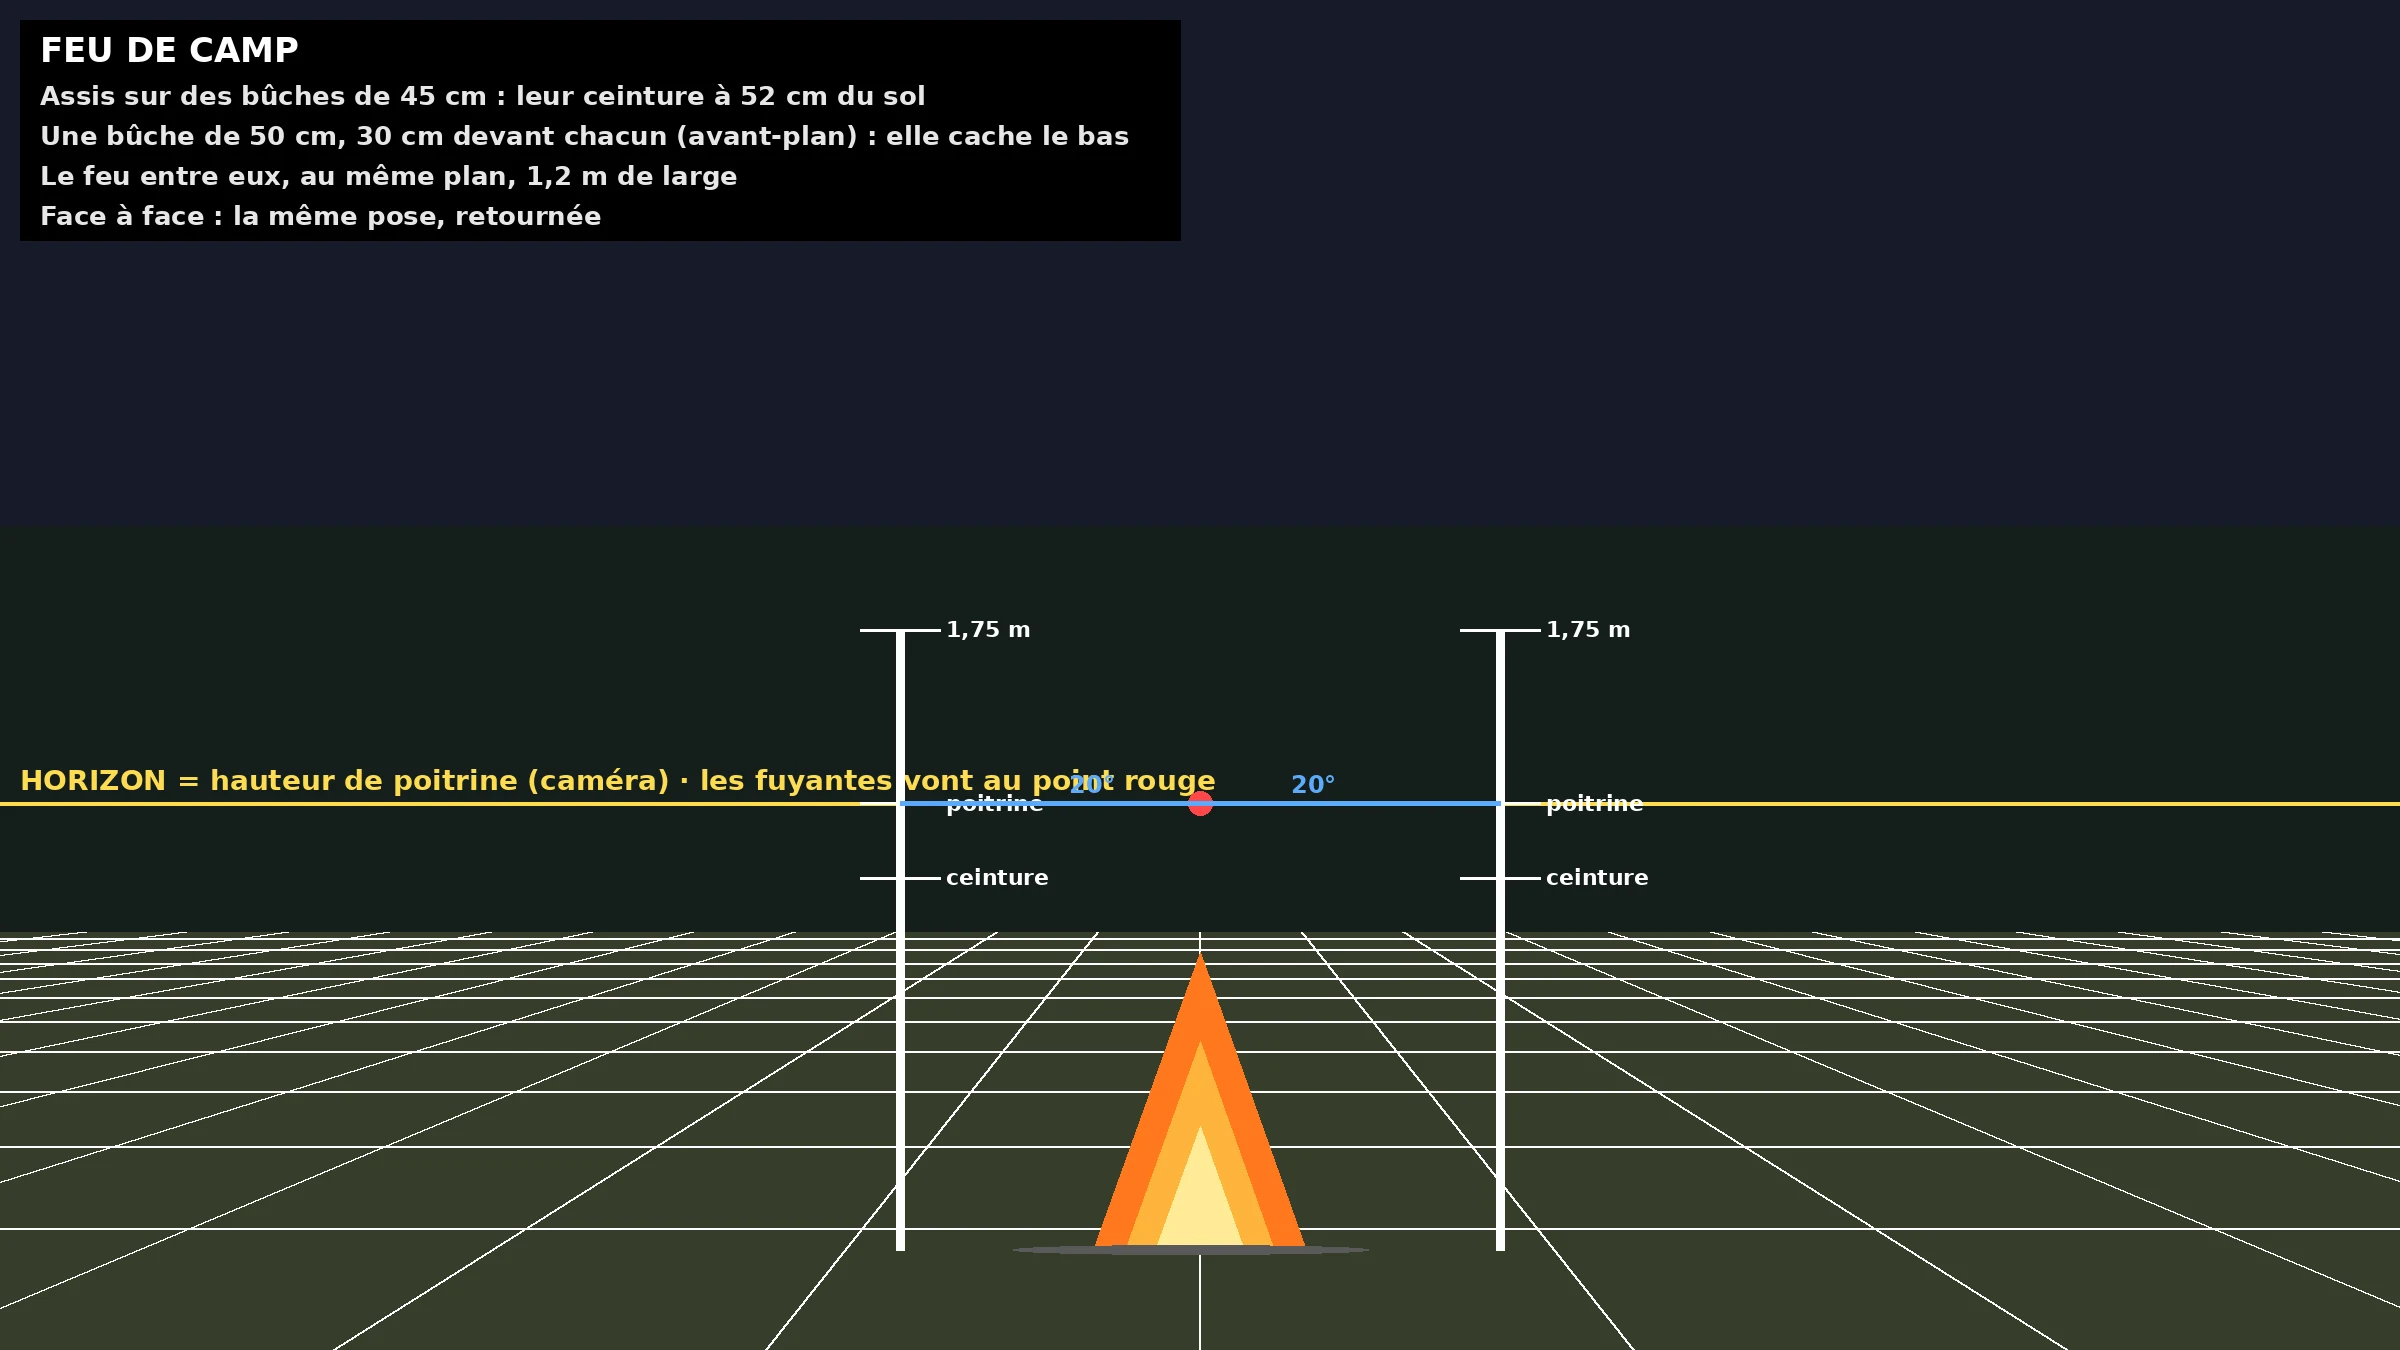
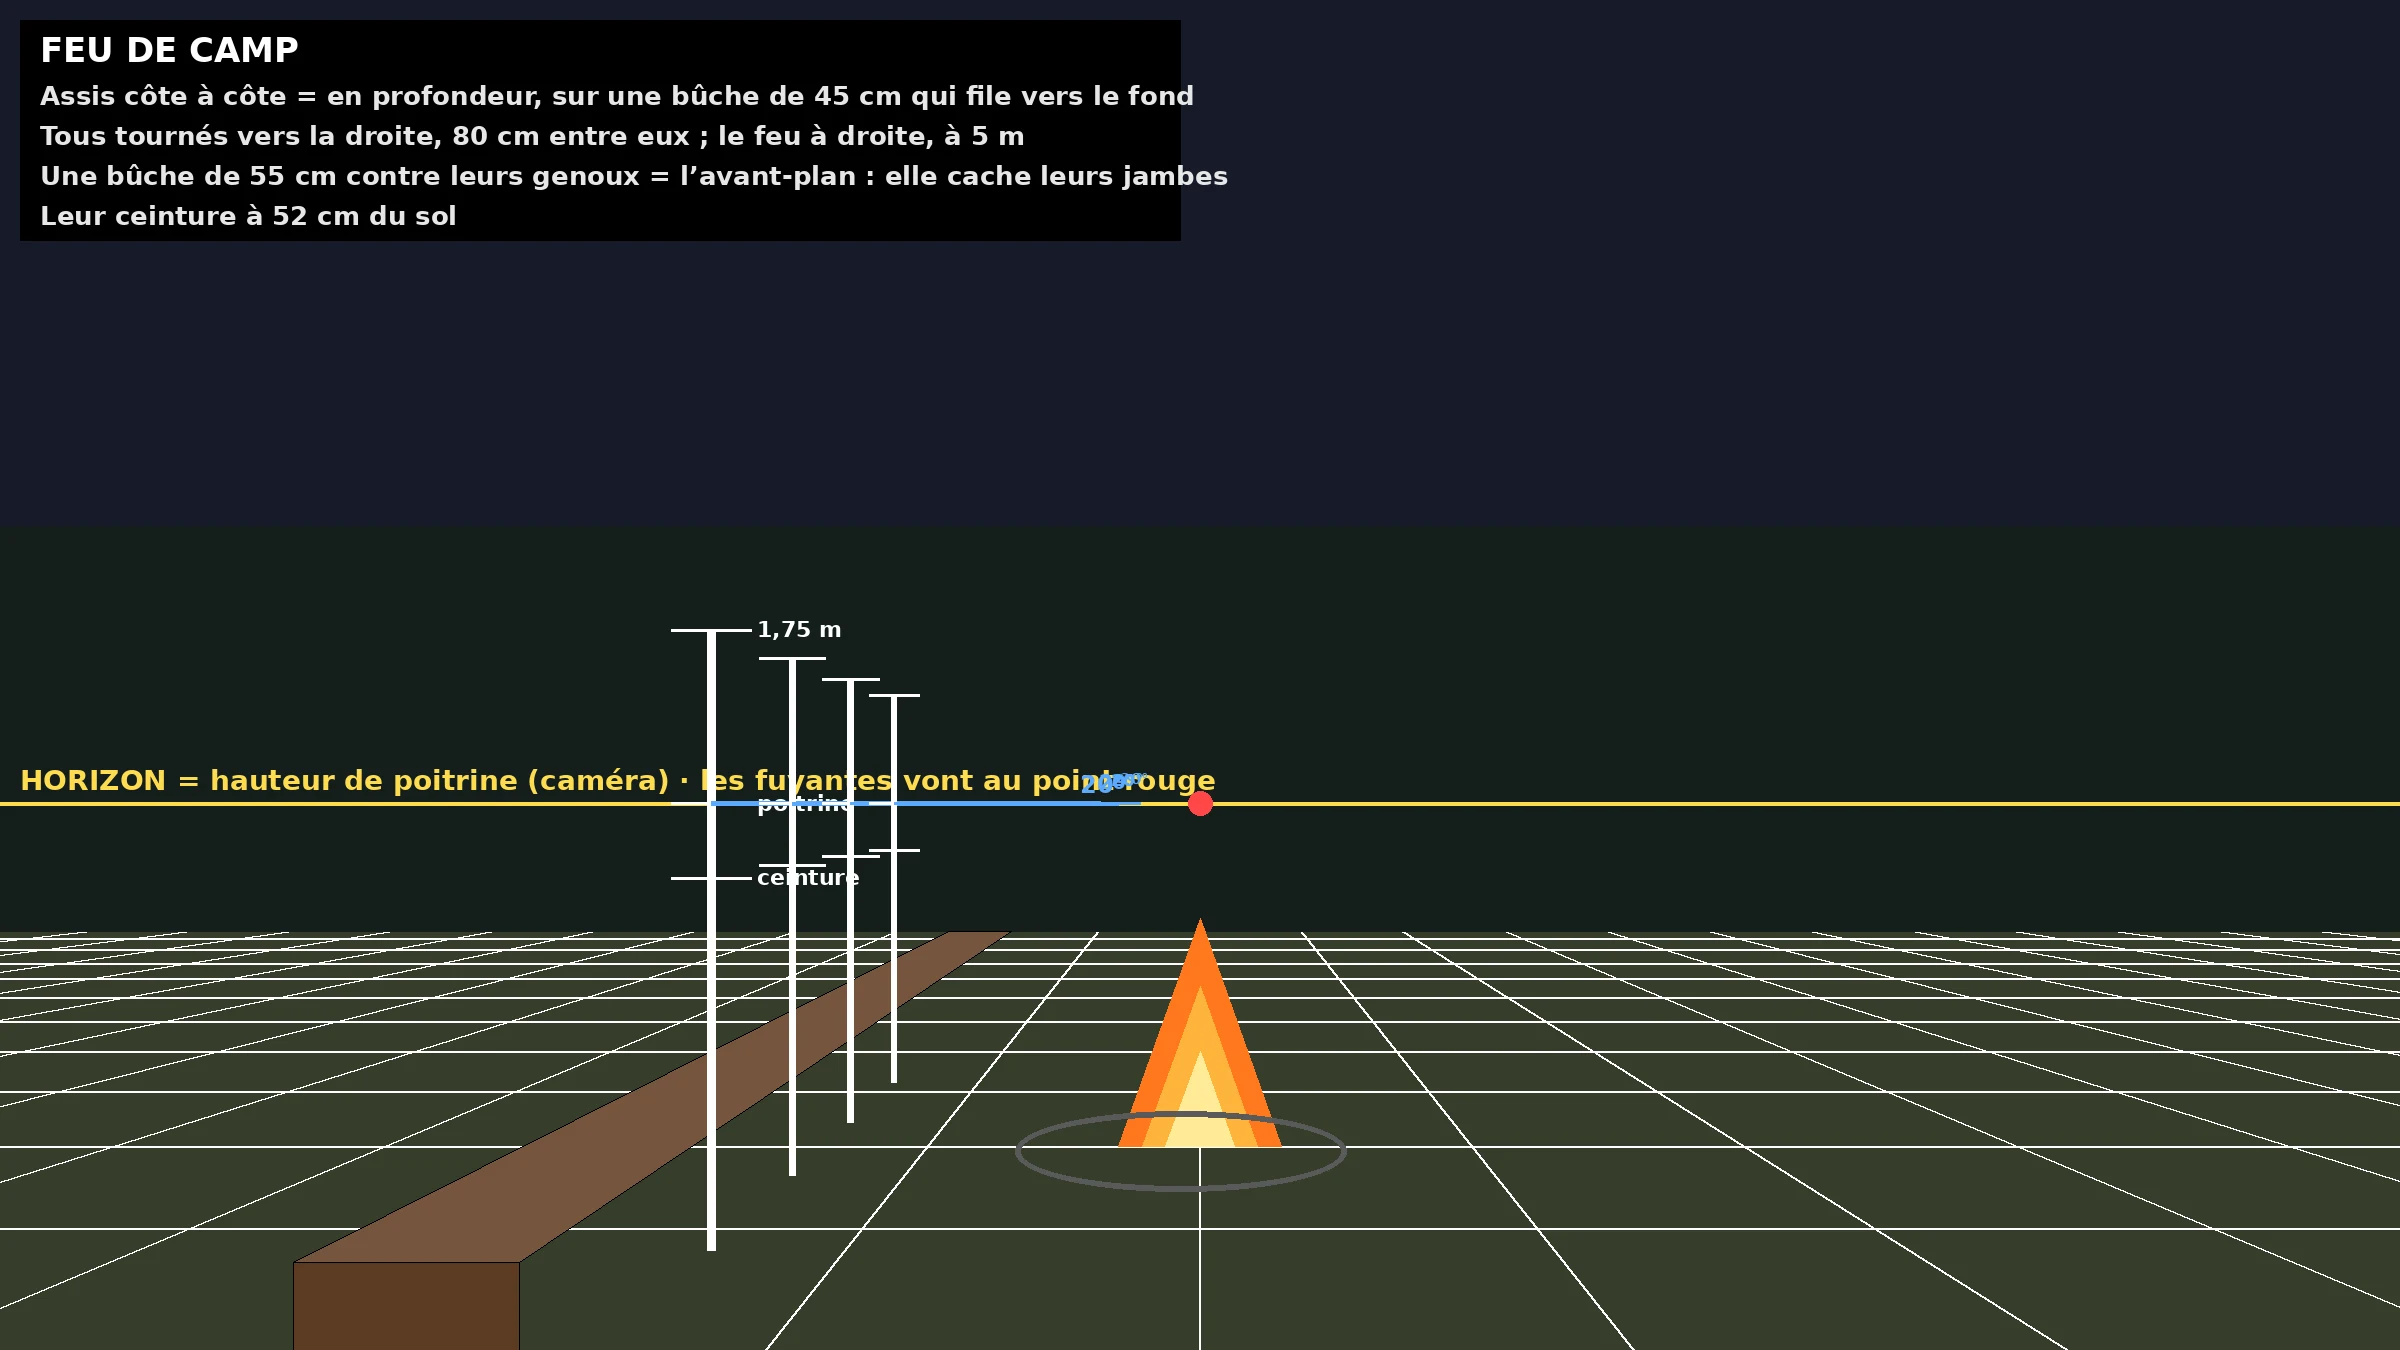
Corrige : la fonction qui remet une pose coupée en pied s'appelait show, comme celle qui change d'écran ; chaque mouvement de caméra appelait celle des écrans (depuis c1764c4). Renommée showPose. Guides du feu de camp et de la ruelle refaits comme le bar : côte à côte = en profondeur (80 cm entre eu
Claude-Session: https://claude.ai/code/session_0111jBtqckCfzF72p3rEMaLs

diff --git a/index.html b/index.html
@@ -1576,7 +1576,7 @@ function shownFor(a, c) {
   const full = ((SPRITES[spriteOf(a.id)].half || {}).full || {})[poseOf(a.id, a.pose)];
   return full && !(c && c.size !== 'wide' && (c.who || []).includes(a.id)) ? full : a.pose;
 }
-function show(a, pose) {
+function showPose(a, pose) {
   if (a.shown === pose) return;
   const img = new Image(); img.alt = ''; img.src = poseSrc(a.id, pose);
   const swap = () => { if (a.shown === pose && actors[a.id] === a) { a.el.replaceChild(img, a.el.firstChild); placeActor(a); } };
@@ -1719,7 +1719,7 @@ function frameOf(c) {
 }
 function applyCam(c, ms) {
   camNow = c;
-  if (!c.frame) for (const a of Object.values(actors)) show(a, shownFor(a, c));   // cut at the belt only in a shot on him
+  if (!c.frame) for (const a of Object.values(actors)) showPose(a, shownFor(a, c));   // cut at the belt only in a shot on him
   const f = c.frame || frameOf(c), s = H / f.camH;
   world.style.transition = ms ? `transform ${ms}ms cubic-bezier(.45,0,.25,1)` : 'none';
   world.style.transform = `translate(${-f.left * s}px,${-f.top * s}px) scale(${s})`;

diff --git a/ref/guides/guides.py b/ref/guides/guides.py
@@ -102,29 +102,36 @@ f.line([P(x1, 1.0, d0), P(x1, 1.0, d1)], fill=(60, 36, 22, 255), width=6)
 BAR_PEOPLE = [(-1.2, 'r', 4.0 + 0.8 * i) for i in range(4)]
 guides(d, 'BAR', ['Comptoir 1,05 m de haut (= leur ceinture), 55 cm de large, il file vers le fond', 'Les clients côte à côte = en profondeur, tous tournés vers la droite, 80 cm entre eux', 'Le dessus est derrière eux (leurs avant-bras posés dessus, la pose est coupée là)', 'Le côté et le bout du comptoir sont l’avant-plan : ils cachent leur ventre'], people=BAR_PEOPLE)
 scenes['g_bar'] = save('bar', bg, fg)
-print('bar people', [(round(P(x, 0, dd)[0]), round(P(x, 0, dd)[1]), round(HCH * D0 / dd)) for x, _, dd in BAR_PEOPLE])
 
-# 4 · the campfire: logs 45 cm high, a log 30 cm in front of each (foreground), the fire between them
+# 4 · the campfire: a long log runs into the depth on the left, they sit on it side by side (each 80 cm further), all
+# facing right, the fire on the right. A second, bigger log against their knees (55 cm) is the foreground: it hides
+# their legs, the poses are cut below the knees
 bg, d = base((54, 62, 44), (22, 26, 40)); grid(d)
 for x in range(-12, 13, 2):
   t = P(x, 0, 14); d.polygon([t, (t[0] - 60, HZ + 2), (t[0] + 60, HZ + 2)], fill=(18, 34, 26))   # far trees
 d.polygon([P(-12, 0, 14), P(12, 0, 14), P(12, 4, 14), P(-12, 4, 14)], fill=(20, 30, 26, 255))
-fx = X(1200, D0)
+box(d, -1.6, -1.2, 0, 0.45, 2.5, 9, (92, 60, 36, 255))   # the log they sit on
+FIRE = (0.0, 5.2)
 for k, col in ((0.6, (255, 120, 30)), (0.42, (255, 180, 60)), (0.25, (255, 235, 150))):
-  d.polygon([P(fx - k * 0.5, 0, D0), P(fx, k * 1.4, D0), P(fx + k * 0.5, 0, D0)], fill=col + (255,))
-d.ellipse(rr(P(fx - 0.5, 0.05, D0 - 0.2), P(fx + 0.5, -0.05, D0 + 0.2)), outline=(90, 90, 90), width=6)
+  d.polygon([P(FIRE[0] - k * 0.5, 0, FIRE[1]), P(FIRE[0], k * 1.4, FIRE[1]), P(FIRE[0] + k * 0.5, 0, FIRE[1])], fill=col + (255,))
+d.ellipse(rr(P(FIRE[0] - 0.6, 0, FIRE[1] - 0.6), P(FIRE[0] + 0.6, 0, FIRE[1] + 0.6)), outline=(90, 90, 90), width=6)
 fg = Image.new('RGBA', (W, H)); f = ImageDraw.Draw(fg)
-for x in (X(900, D0), X(1500, D0)):
-  f.rounded_rectangle(rr(P(x - 0.6, 0.5, D0 - 0.3), P(x + 0.6, 0, D0 - 0.3)), radius=30, fill=(92, 60, 36, 255), outline=(40, 24, 14, 255), width=6)
-guides(d, 'FEU DE CAMP', ['Assis sur des bûches de 45 cm : leur ceinture à 52 cm du sol', 'Une bûche de 50 cm, 30 cm devant chacun (avant-plan) : elle cache le bas', 'Le feu entre eux, au même plan, 1,2 m de large', 'Face à face : la même pose, retournée'], people=[(900, 'r'), (1500, 'l')])
+box(f, -1.05, -0.75, 0, 0.55, 2.5, 9, (110, 72, 44, 255), edge=(40, 24, 14, 255))   # the log against their knees
+FIRE_PEOPLE = [(-1.38, 'r', 4.0 + 0.8 * i) for i in range(4)]
+guides(d, 'FEU DE CAMP', ['Assis côte à côte = en profondeur, sur une bûche de 45 cm qui file vers le fond', 'Tous tournés vers la droite, 80 cm entre eux ; le feu à droite, à 5 m', 'Une bûche de 55 cm contre leurs genoux = l’avant-plan : elle cache leurs jambes', 'Leur ceinture à 52 cm du sol'], people=FIRE_PEOPLE)
 scenes['g_fire'] = save('feu', bg, fg)
 
-# 5 · the alley: two walls 1,9 m apart, receding to the vanishing point; each leans back on one, facing the other
+# 5 · the alley: they lean back on the left wall side by side (each 80 cm further), all facing the right wall, 1,9 m
+# across. Nothing hides their legs: in a wide shot they stand in their full-body pose
 bg, d = base(); grid(d, x0=-1, x1=1)
-xl, xr = X(1010, D0) - 0.18, X(1390, D0) + 0.18
-for (x, c) in ((xl, (92, 80, 74)), (xr, (84, 74, 70))):
-  d.polygon([P(x, 0, 2.2), P(x, 0, 30), P(x, 6, 30), P(x, 6, 2.2)], fill=c + (255,), outline=(0, 0, 0, 200))
-  for dd in range(3, 30, 2): d.line([P(x, 0, dd), P(x, 6, dd)], fill=(0, 0, 0, 60), width=2)
-guides(d, 'RUELLE · adossés', ['Deux murs à 1,9 m l’un de l’autre, ils filent vers le point rouge', 'Chacun dos à un mur, face à l’autre : la même pose, retournée', 'Joints du mur tous les 2 m', 'Grille au sol = 1 m'], people=[(1010, 'r'), (1390, 'l')])
+XL, XR = -1.48, 0.42
+d.polygon([P(XL, 0, 2.2), P(XL, 0, 30), P(XL, 6, 30), P(XL, 6, 2.2)], fill=(92, 80, 74, 255), outline=(0, 0, 0, 200))
+d.polygon([P(XR, 0, 2.2), P(XR, 0, 30), P(XR, 6, 30), P(XR, 6, 2.2)], fill=(84, 74, 70, 255), outline=(0, 0, 0, 200))
+for dd in range(3, 30, 2):
+  for x in (XL, XR): d.line([P(x, 0, dd), P(x, 6, dd)], fill=(0, 0, 0, 60), width=2)
+ALLEY_PEOPLE = [(-1.3, 'r', 4.0 + 0.8 * i) for i in range(4)]
+guides(d, 'RUELLE · adossés', ['Adossés côte à côte = en profondeur, dos au mur de gauche', 'Tous tournés vers le mur de droite, à 1,9 m ; 80 cm entre eux', 'Rien ne cache leurs jambes : en plan large, pose en pied', 'Joints du mur tous les 2 m, grille au sol = 1 m'], people=ALLEY_PEOPLE)
 scenes['g_alley'] = save('ruelle', bg, None)
+for n, pp in (('bar', BAR_PEOPLE), ('feu', FIRE_PEOPLE), ('ruelle', ALLEY_PEOPLE)):
+  print(n, [[round(P(x, 0, dd)[0]), round(P(x, 0, dd)[1]), round(HCH * D0 / dd)] for x, _, dd in pp])
 print(json.dumps({'HZ': HZ, 'F': F}))
